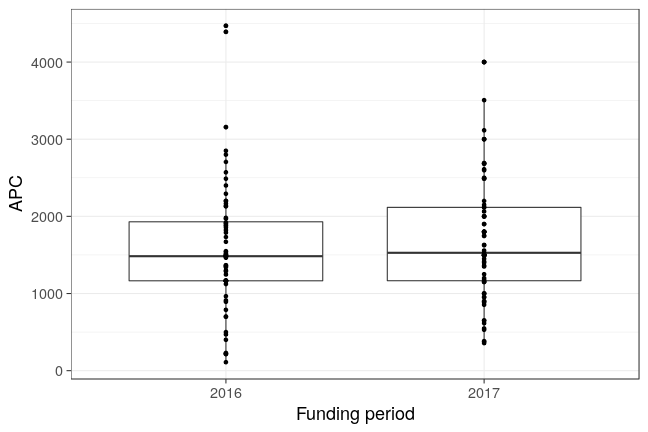
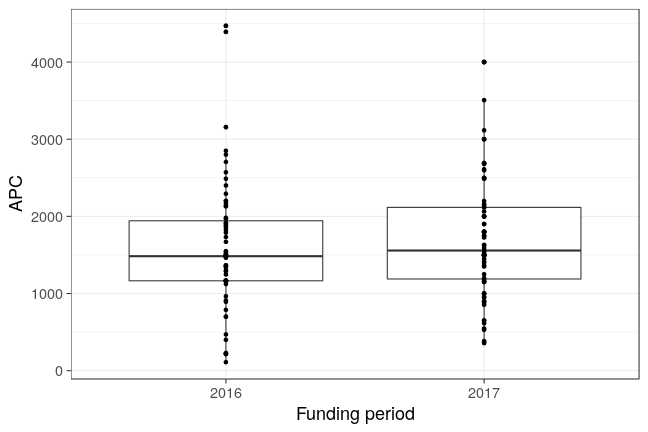
update: uni milan apc data 2017 + contact update for all posts

Changed region(s): [[0.5864, 0.6319, 0.8951, 0.662], [0.5864, 0.5718, 0.8951, 0.6019], [0.216, 0.5116, 0.4938, 0.5417]]

diff --git a/_posts/2018-02-09-milano.md b/_posts/2018-02-09-milano.md
@@ -14,13 +14,13 @@ comments: true
 
 The [University of Milan](http://www.unimi.it/ENG/) has reported its APC expenditures for the 2017 period.
 
-Contact person is [Anna Marini](mailto:anna.marini@unimi.it).
+Contact person is [Paola Galimberti](mailto:paola.galimberti@unimi.it).
 
 ## Cost data
 
 
 
-The new dataset covers publication fees for 79 articles. Total expenditure amounts to 135 693€ and the average fee is 1 718€.
+The new dataset covers publication fees for 83 articles. Total expenditure amounts to 142 671€ and the average fee is 1 719€.
 
 The following table shows the payments the University of Milan has made to publishers in 2017:
 
@@ -28,17 +28,17 @@ The following table shows the payments the University of Milan has made to publi
 
 |                                            | Articles| Fees paid in EURO| Mean Fee paid|
 |:-------------------------------------------|--------:|-----------------:|-------------:|
-|Springer Nature                             |       19|             31624|          1664|
-|Frontiers Media SA                          |       13|             26010|          2001|
+|Springer Nature                             |       20|             33216|          1661|
+|Frontiers Media SA                          |       14|             28170|          2012|
 |Public Library of Science (PLoS)            |        9|             13545|          1505|
 |MDPI AG                                     |        7|             10130|          1447|
 |Elsevier BV                                 |        6|              9588|          1598|
 |Wiley-Blackwell                             |        5|             11258|          2252|
 |Hindawi Publishing Corporation              |        4|              6450|          1612|
+|Informa UK Limited                          |        4|              5821|          1455|
 |American Chemical Society (ACS)             |        3|              8000|          2667|
-|Informa UK Limited                          |        3|              4095|          1365|
+|Walter de Gruyter GmbH                      |        3|              3500|          1167|
 |OMICS Publishing Group                      |        2|              1839|           920|
-|Walter de Gruyter GmbH                      |        2|              2000|          1000|
 |AIP Publishing                              |        1|              2500|          2500|
 |American Society of Agronomy                |        1|              1400|          1400|
 |American Society of Plant Biologists (ASPB) |        1|               950|           950|

diff --git a/_posts/2017-02-07-milano.md b/_posts/2017-02-07-milano.md
@@ -13,7 +13,7 @@ comments: true
 
 We welcome the [Università degli Studi di Milano](http://www.unimi.it/ENG/) (University of Milan) as our first contributing institution from Italy!
 
-Contact person is [Anna Marini](mailto:anna.marini@unimi.it).
+Contact person is [Paola Galimberti](mailto:paola.galimberti@unimi.it).
 
 ## About the dataset
 

diff --git a/_posts/2017-05-18-milano.md b/_posts/2017-05-18-milano.md
@@ -14,7 +14,7 @@ comments: true
 
 The [University of Milan](http://www.unimi.it/ENG/) has updated its APC expenditures for the 2016 period.
 
-Contact person is [Anna Marini](mailto:anna.marini@unimi.it).
+Contact person is [Paola Galimberti](mailto:paola.galimberti@unimi.it).
 
 ## Cost data
 
